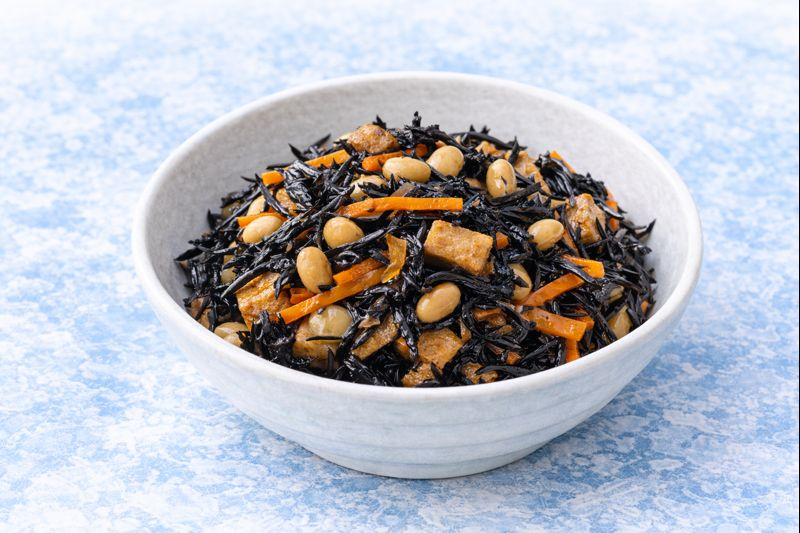
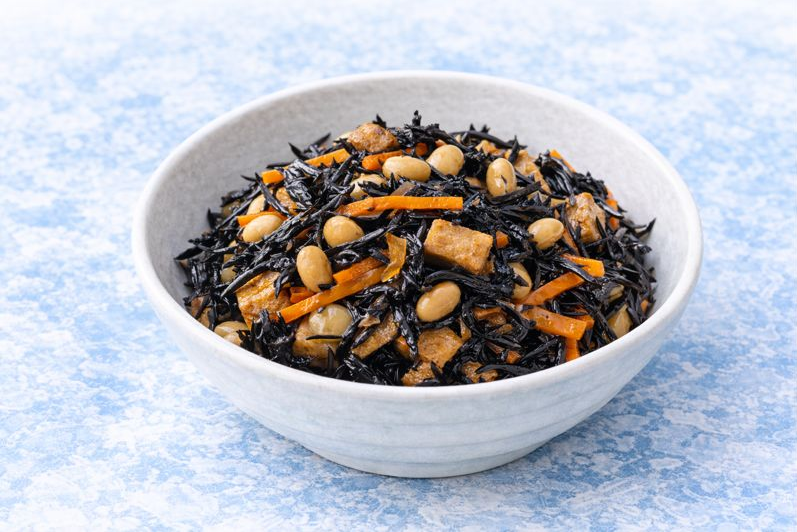
Update product images, remove placeholders, and fix product data

diff --git a/script.js b/script.js
@@ -15,15 +15,11 @@ const renderProductCards = (container, products, options = {}) => {
     .map(
       (product) => `
         <article class="product-card reveal">
-          <img src="assets/placeholder-product.svg" alt="${product.name}のイメージ" width="320" height="220" />
+          <img src="${product.image || 'assets/placeholder-product.svg'}" alt="${product.name}のイメージ" width="320" height="220" />
           <div>
             <div class="badge-group">
               <span class="badge">${product.category}</span>
-              ${
-                showFeaturedBadge && product.isFeatured
-                  ? '<span class="badge badge--featured">人気</span>'
-                  : ''
-              }
+              ${product.isFeatured ? '<span class="badge badge--featured">人気</span>' : ''}
             </div>
             <h3>${product.name}</h3>
           </div>
